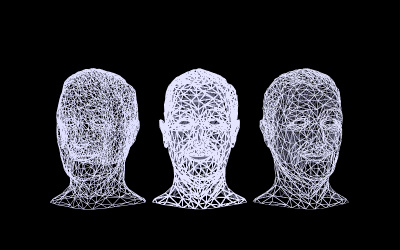
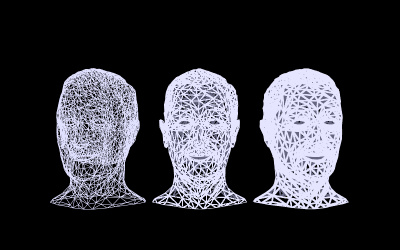
ATC Example: consistently set thickness (#21390)
* make ATC wireframe lines a consistent thickness

* Add spacing, variable rename

* fix screenshot

* consistently set the material thickness

* update screenshot from new variable change

Changed region(s): [[0.63, 0.28, 0.87, 0.84]]

diff --git a/examples/webgl_materials_wireframe.html b/examples/webgl_materials_wireframe.html
@@ -164,7 +164,7 @@
 
 					const material3 = new THREE.ShaderMaterial( {
 
-						uniforms: { 'thickness': { value: API.thickness * 0.01 } },
+						uniforms: { 'thickness': { value: API.thickness } },
 						vertexShader: document.getElementById( 'vertexShaderATC' ).textContent,
 						fragmentShader: document.getElementById( 'fragmentShaderATC' ).textContent,
 						side: THREE.DoubleSide,
